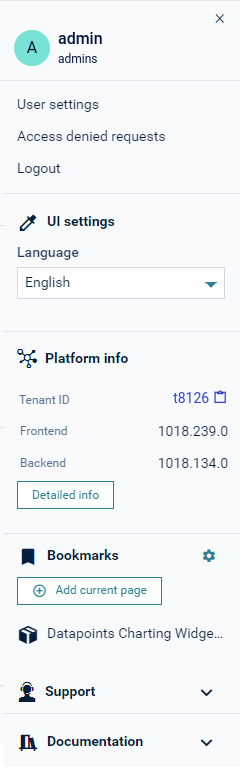
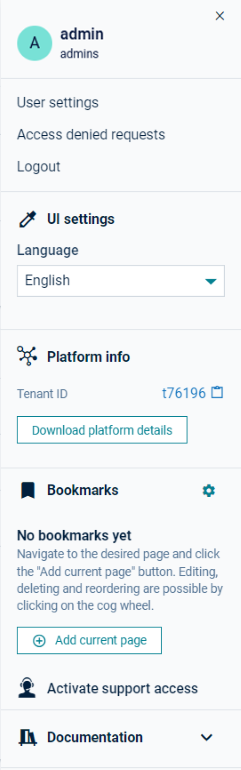
Added screenshot

diff --git a/content/get-familiar-with-the-ui/user-settings.md b/content/get-familiar-with-the-ui/user-settings.md
@@ -8,7 +8,7 @@ section:
 
 Clicking the **User** button at the top right opens the right drawer which provides access to various actions and information.
 
-<img src="/images/users-guide/getting-started/getting-started-user-account-menu.png" alt="User account menu"  style="max-width: 60%">
+![User account menu](/images/users-guide/getting-started/getting-started-user-account-menu.png)
 
 At the top you find the following items:
 
@@ -37,10 +37,10 @@ At the top you find the following items:
 <td style="text-align:left">Logs you out from your {{< product-c8y-iot >}} account. </td>
 </tr>
 <tr>
-<td style="text-align:left">Activate support</td>
+<td style="text-align:left">Activate support access</td>
 <td style="text-align:left">Allows support users to access your account.<br>
 <br>
-Note that this option is only available if support user access is not set globally for subtenant users in the {{< management-tenant >}}, for details see <a href="/enterprise-tenant/support-user-access/" class="no-ajaxy">Support user access</a>. After the support user access has been activated, the menu item switches to <strong>Deactivate support</strong>. If your support request has been resolved but the duration for the support user access is not expired (24 hours by default) you can actively disable an active support user request here.</td>
+Note that this option is only available if support user access is not set globally for subtenant users in the {{< management-tenant >}}, for details see <a href="/enterprise-tenant/support-user-access/" class="no-ajaxy">Support user access</a>. After the support user access has been activated, the menu item switches to <strong>Deactivate support access</strong>. If your support request has been resolved but the duration for the support user access is not expired (24 hours by default) you can actively disable an active support user request here.</td>
 </tbody>
 </table>
 
@@ -52,7 +52,7 @@ If you want to find out the version numbers of the different components on your 
 
 The **Bookmarks** section provides links to the most common pages and processes in the platform.
 
-In the **Support** section, the request support item redirects you to the <a href="{{< link-sag-portal >}}" class="no-ajaxy">{{< company-sag >}} {{< sag-portal >}}</a> while the **Documentation** section provides links to the most relevant guides.
+To allow a support user from {{< company-c8y >}} help with an issue, click **Activate support access**. Meanwhile, the **Documentation** section provides links to the most relevant guides.
 
 
 ### To change user settings {#to-change-user-settings}
